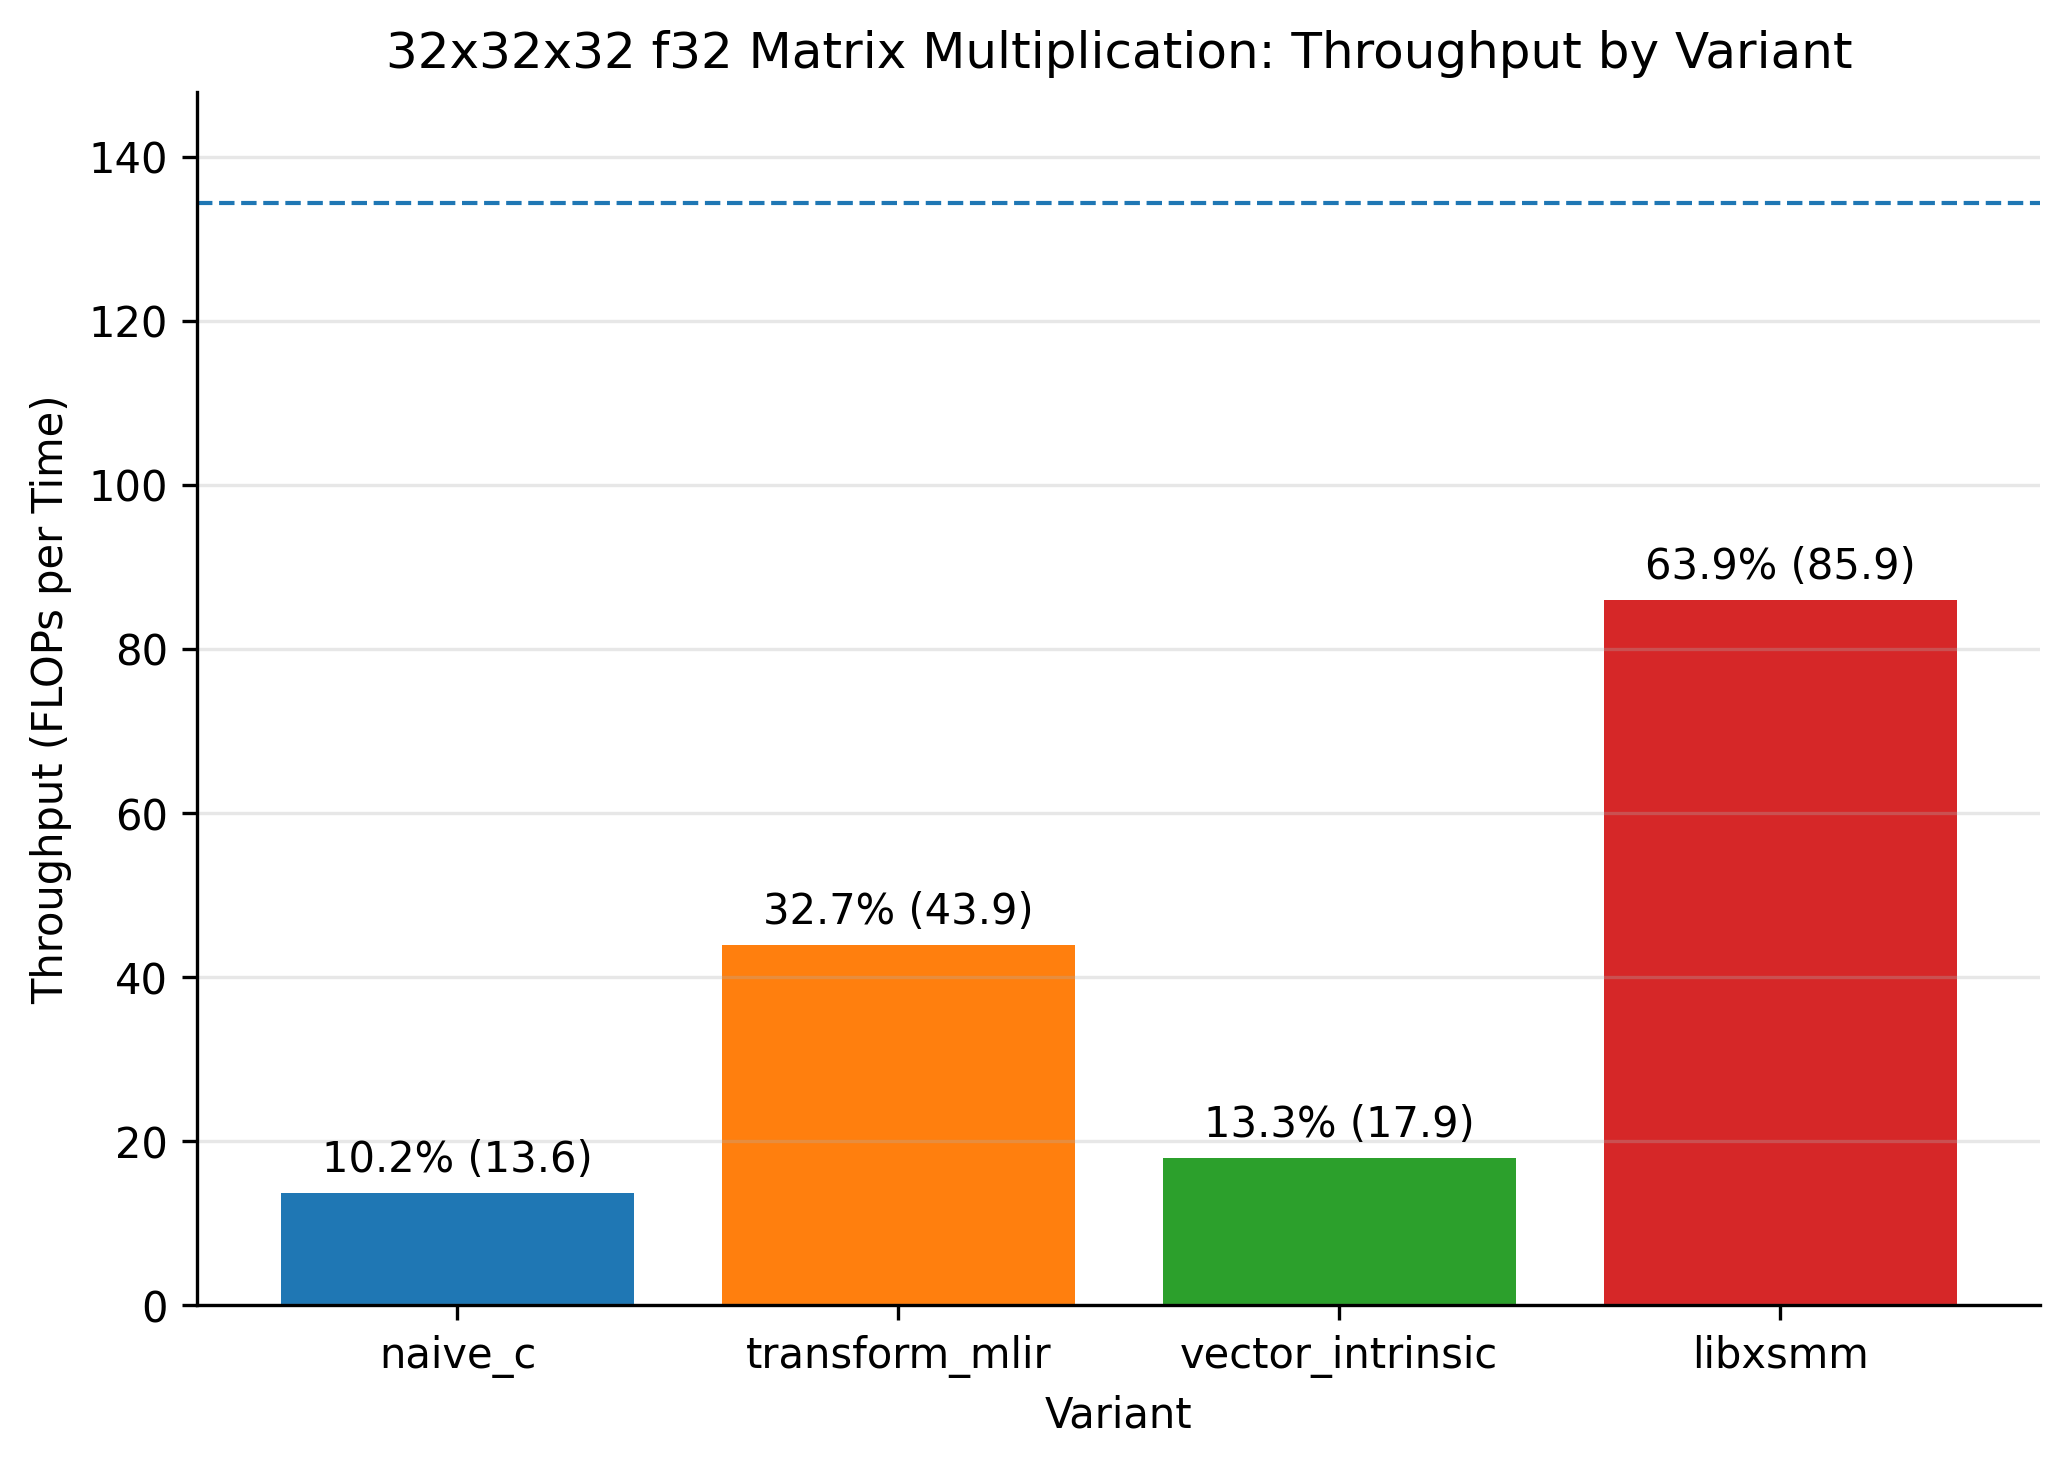
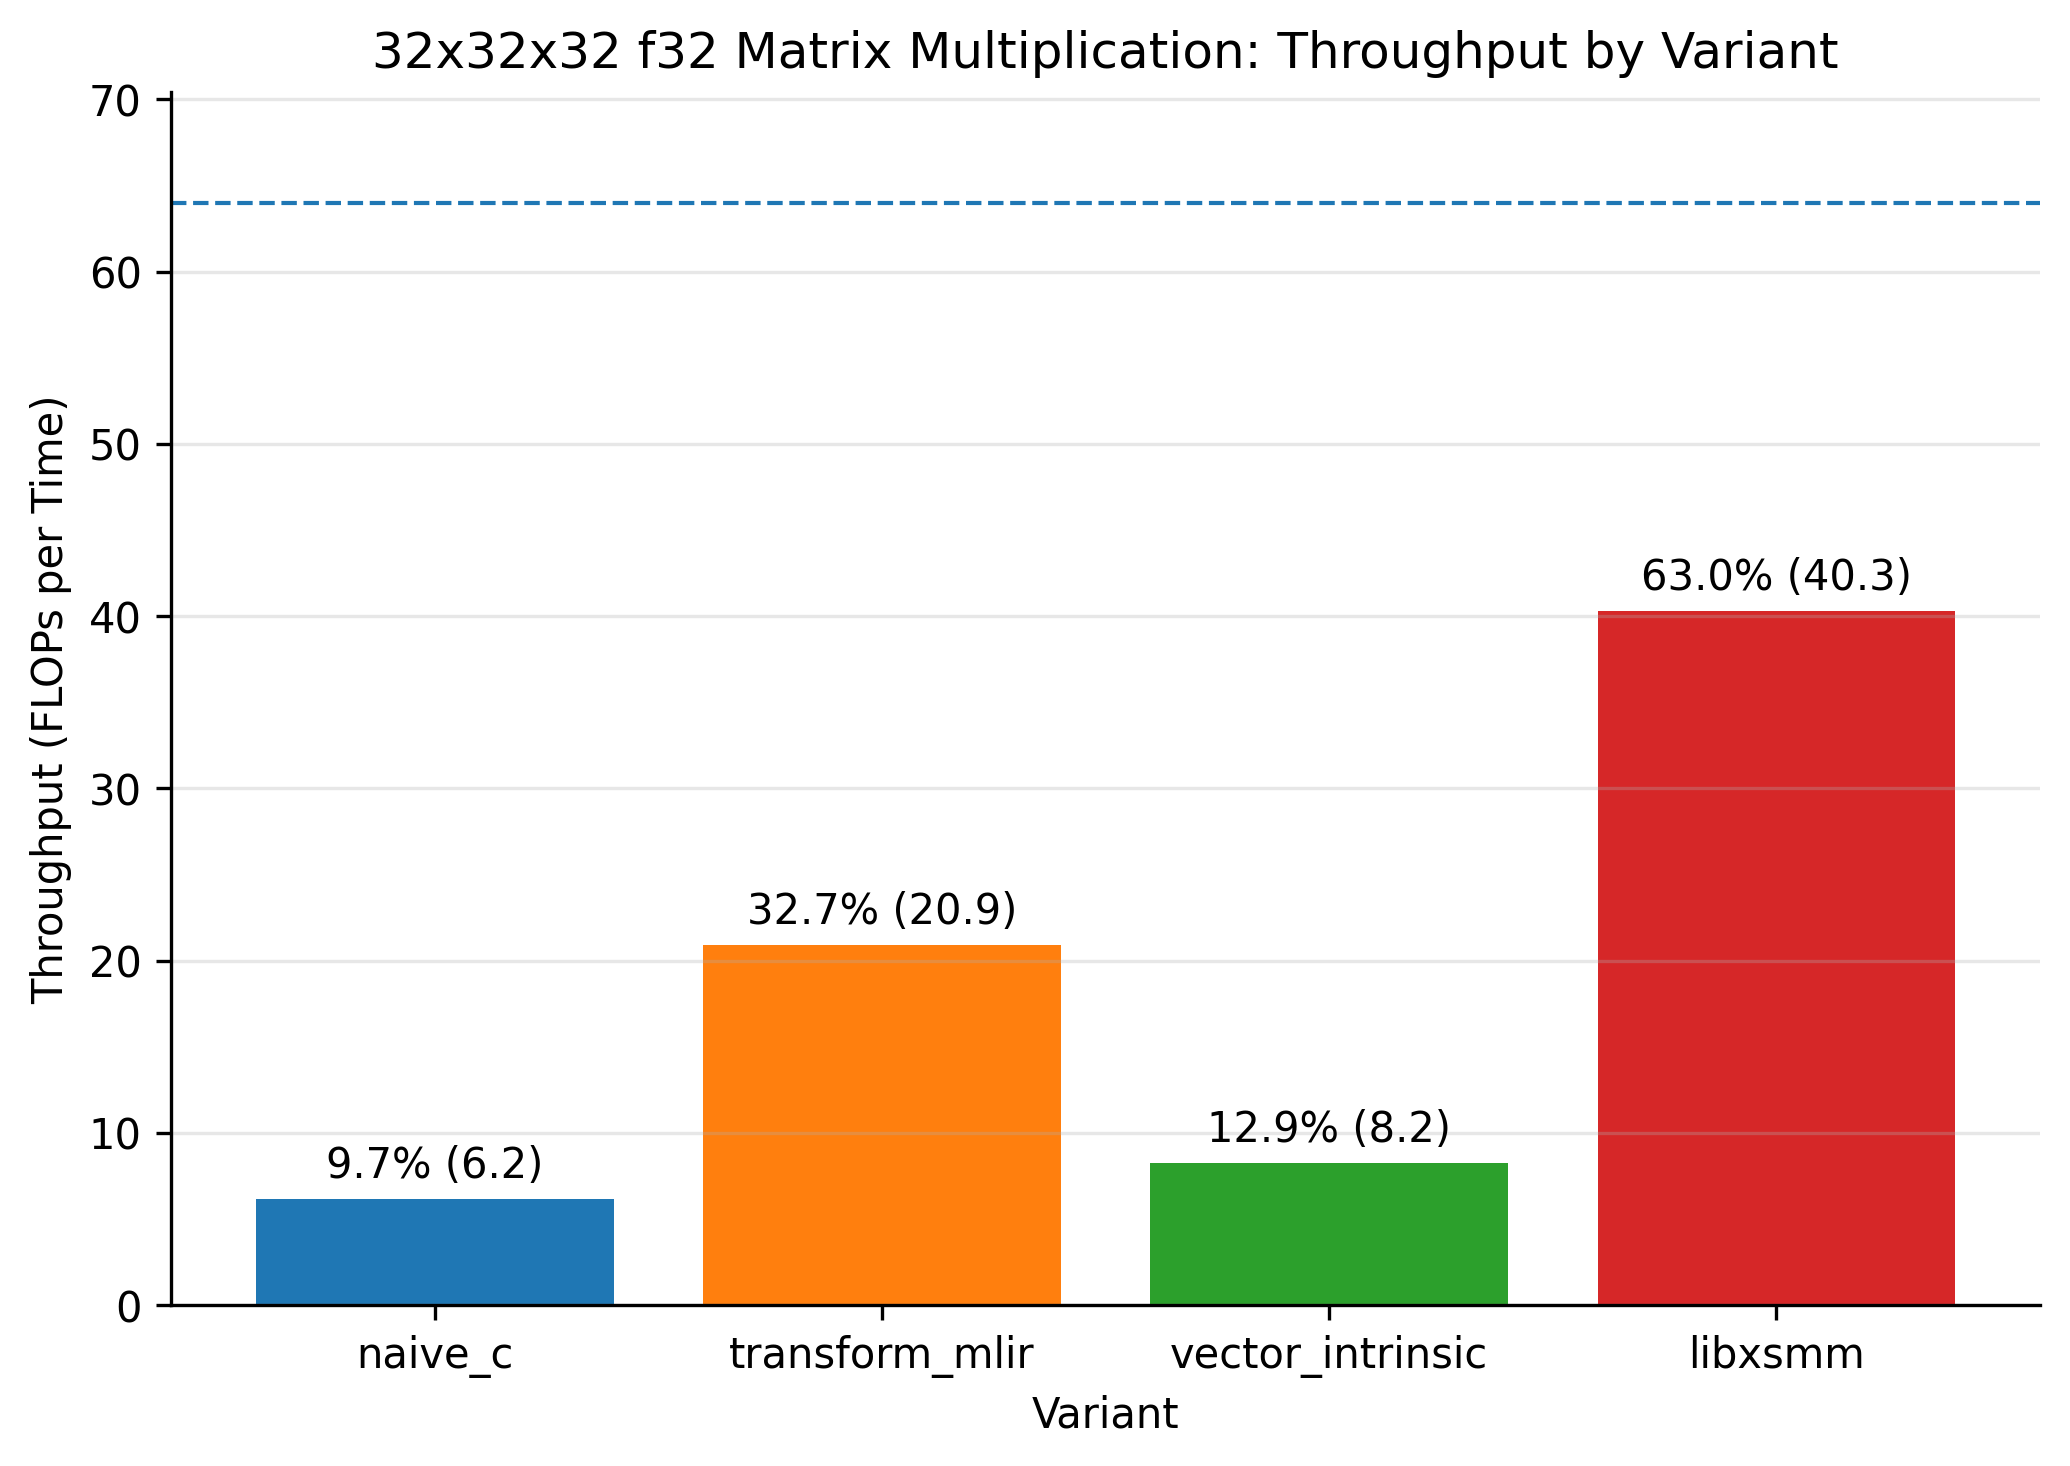
Normalization in cycles rather than seconds

diff --git a/kernels/matmul_rowmaj/time.c b/kernels/matmul_rowmaj/time.c
@@ -105,11 +105,11 @@ int main() {
 #if __has_include(<papi.h>)
     CHECK(PAPI_stop(EventSet, values));
 #endif
-    elapsed = (double) values[0] / (double)FREQ;
+    elapsed = (double) values[0];
   }
   else {
   clock_gettime(CLOCK_MONOTONIC, &ts_end);
-  elapsed = ts_end.tv_nsec - ts_start.tv_nsec;
+  elapsed = (ts_end.tv_nsec - ts_start.tv_nsec) * (double)FREQ;
   }
   
   double average_cycles = (double)elapsed / (double)NUM_ITERATIONS;
